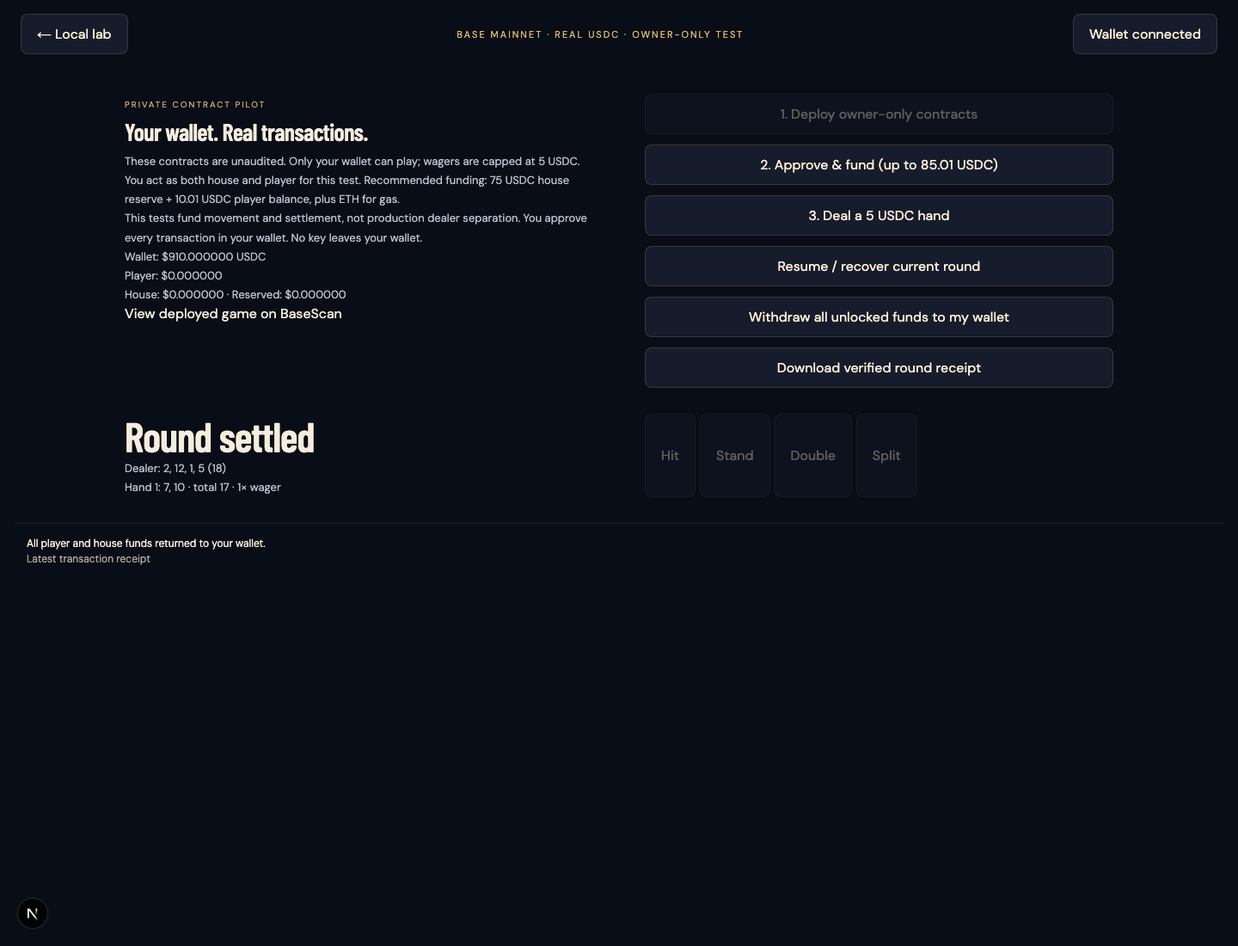
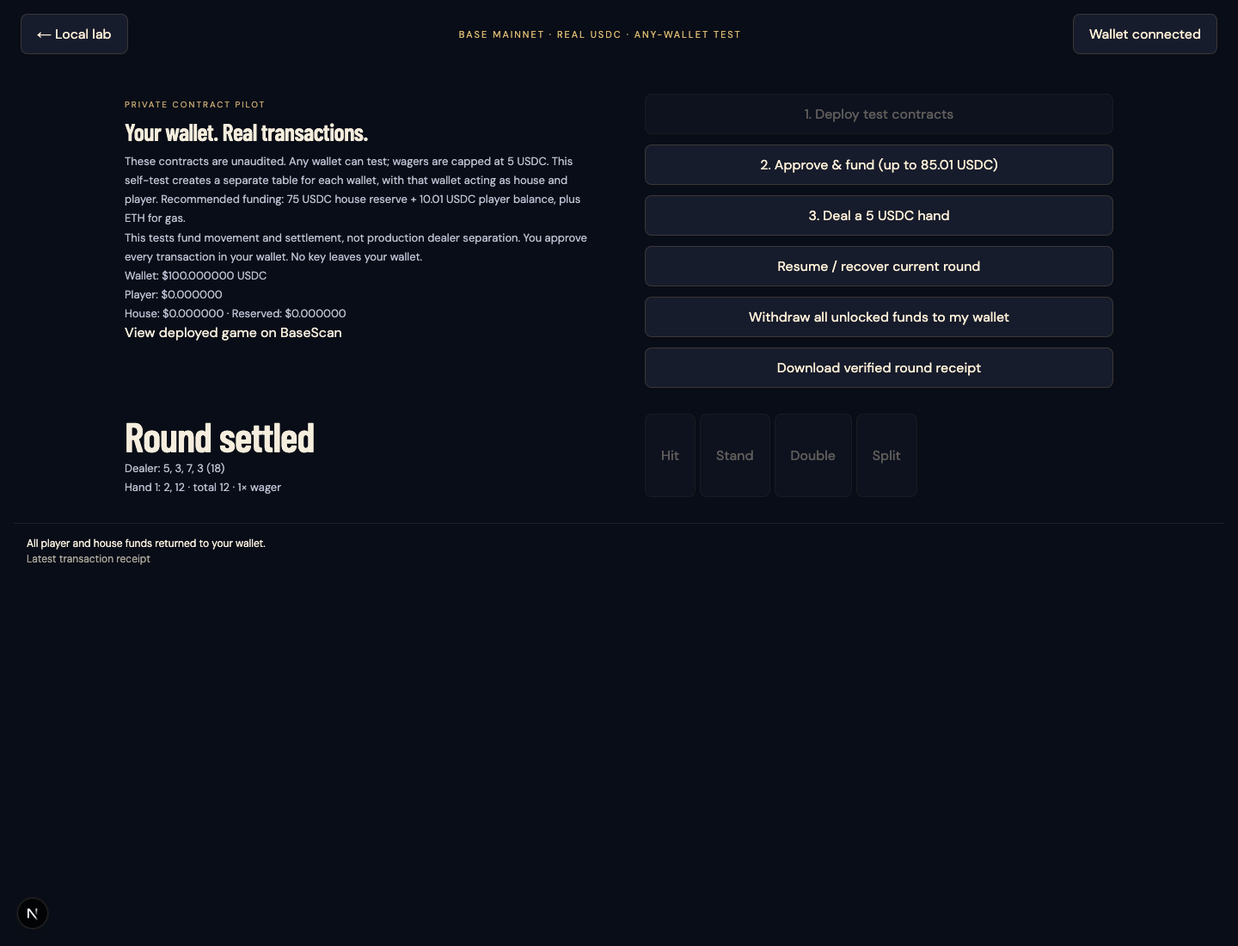
Allow any test wallet and prepare public crypto entry points

diff --git a/app/crypto-pilot/ui.tsx b/app/crypto-pilot/ui.tsx
@@ -11,27 +11,26 @@ import artifact from '../../shared/crypto/pilot-artifact.json';
 import {verifyCryptoReceipt} from '../../shared/crypto/verify-receipt';
 import type {LabReceipt} from '../../server/crypto/lab-types';
 import '../crypto-lab/lab.css';
-const OWNER='0x8A0182c099A618583e9EF98716DAcF739b3BD944';
-const treasuryAbi=parseAbi(['function house() view returns(uint256)','function reserved() view returns(uint256)','function paused() view returns(bool)','function fundHouse(uint256)','function withdrawProfit(uint256)','function setPaused(bool)']);
+const treasuryAbi=parseAbi(['function treasury() view returns(address)','function house() view returns(uint256)','function reserved() view returns(uint256)','function paused() view returns(bool)','function fundHouse(uint256)','function withdrawProfit(uint256)','function setPaused(bool)']);
 type Deployment={game:Address;vault:Address;block:string};type Secret={id:Hex;seed:Hex;commitment:Hex};
 const random=()=>`0x${Array.from(crypto.getRandomValues(new Uint8Array(32)),x=>x.toString(16).padStart(2,'0')).join('')}` as Hex;
 const provider=()=>{const p=(window as unknown as {ethereum?:EIP1193Provider}).ethereum;if(!p)throw Error('Open this page in a browser with your wallet extension.');return p;};
 export default function Pilot(){
- const [owner,setOwner]=useState<Address>(),[deployment,setDeployment]=useState<Deployment>(),[secret,setSecret]=useState<Secret>(),[state,setState]=useState<CryptoState>(),[phase,setPhase]=useState(0),[balance,setBalance]=useState({wallet:'0',available:'0',house:'0',reserved:'0'}),[busy,setBusy]=useState(''),[message,setMessage]=useState('Owner-only real USDC test. This is not the public game.'),[receipt,setReceipt]=useState<LabReceipt>(),[tx,setTx]=useState<Hex>();
- const storageKey='bonkers-owner-pilot-v1';
- useEffect(()=>{try{const d=JSON.parse(localStorage.getItem(storageKey)??'null');if(d){setDeployment(d.deployment);setSecret(d.secret);}}catch{}},[]);
- function save(d:Deployment,s?:Secret){localStorage.setItem(storageKey,JSON.stringify({deployment:d,secret:s}));setDeployment(d);setSecret(s);}
- async function clients(){const p=provider(),wallet=createWalletClient({chain:base,transport:custom(p)}),client=createPublicClient({chain:base,transport:custom(p)});if(await wallet.getChainId()!==8453)throw Error('Switch to Base mainnet before continuing.');const [account]=await wallet.getAddresses();if(account?.toLowerCase()!==OWNER.toLowerCase())throw Error(`Select ${OWNER}`);return{wallet,client,account};}
+ const [owner,setOwner]=useState<Address>(),[deployment,setDeployment]=useState<Deployment>(),[secret,setSecret]=useState<Secret>(),[state,setState]=useState<CryptoState>(),[phase,setPhase]=useState(0),[balance,setBalance]=useState({wallet:'0',available:'0',house:'0',reserved:'0'}),[busy,setBusy]=useState(''),[message,setMessage]=useState('Private wallet USDC test. This is not the public game.'),[receipt,setReceipt]=useState<LabReceipt>(),[tx,setTx]=useState<Hex>();
+ const storageKey=(account:Address)=>`bonkers-wallet-pilot-v2:${account.toLowerCase()}`;
+ useEffect(()=>{const p=(window as unknown as {ethereum?:EIP1193Provider}).ethereum;const reset=()=>{setOwner(undefined);setDeployment(undefined);setSecret(undefined);setState(undefined);setReceipt(undefined);setPhase(0);setBalance({wallet:'0',available:'0',house:'0',reserved:'0'});setMessage('Wallet changed. Reconnect to load that wallet’s test.');};p?.on?.('accountsChanged',reset);p?.on?.('chainChanged',reset);return()=>{p?.removeListener?.('accountsChanged',reset);p?.removeListener?.('chainChanged',reset);};},[]);
+ function save(d:Deployment,s?:Secret){if(!owner)throw Error("Connect a wallet first");localStorage.setItem(storageKey(owner),JSON.stringify({deployment:d,secret:s}));setDeployment(d);setSecret(s);}
+ async function clients(){const p=provider(),wallet=createWalletClient({chain:base,transport:custom(p)}),client=createPublicClient({chain:base,transport:custom(p)});if(await wallet.getChainId()!==8453)throw Error('Switch to Base mainnet before continuing.');const [account]=await wallet.getAddresses();if(!account)throw Error('Connect a wallet first');if(owner&&account.toLowerCase()!==owner.toLowerCase())throw Error('Wallet changed; reconnect before signing');return{wallet,client,account};}
  async function run(label:string,fn:()=>Promise<void>){setBusy(label);try{await fn();}catch(e){setMessage(e instanceof Error?e.message:'Operation failed');}finally{setBusy('');}}
- async function readBalances(d=deployment){const {client,account}=await clients();const wallet=await client.readContract({address:BASE_USDC,abi:erc20Abi,functionName:'balanceOf',args:[account]});if(!d){setBalance(b=>({...b,wallet:String(wallet)}));return;}
- const [available,house,reserved,pilot,token]=await Promise.all([client.readContract({address:d.vault,abi:vaultAbi,functionName:'available',args:[account]}),client.readContract({address:d.vault,abi:treasuryAbi,functionName:'house'}),client.readContract({address:d.vault,abi:treasuryAbi,functionName:'reserved'}),client.readContract({address:d.game,abi:gameAbi,functionName:'pilotOwner'}),client.readContract({address:d.vault,abi:vaultAbi,functionName:'token'})]);if(pilot.toLowerCase()!==OWNER.toLowerCase()||token!==BASE_USDC)throw Error('Unexpected pilot owner or settlement token');setBalance({wallet:String(wallet),available:String(available),house:String(house),reserved:String(reserved)});}
+ async function readBalances(d:Deployment|null|undefined=deployment){const {client,account}=await clients();const wallet=await client.readContract({address:BASE_USDC,abi:erc20Abi,functionName:'balanceOf',args:[account]});if(!d){setBalance(b=>({...b,wallet:String(wallet)}));return;}
+ const [available,house,reserved,treasury,token]=await Promise.all([client.readContract({address:d.vault,abi:vaultAbi,functionName:'available',args:[account]}),client.readContract({address:d.vault,abi:treasuryAbi,functionName:'house'}),client.readContract({address:d.vault,abi:treasuryAbi,functionName:'reserved'}),client.readContract({address:d.vault,abi:treasuryAbi,functionName:'treasury'}),client.readContract({address:d.vault,abi:vaultAbi,functionName:'token'})]);if(treasury.toLowerCase()!==account.toLowerCase()||token!==BASE_USDC)throw Error('This saved self-test belongs to another wallet or uses an unexpected token');setBalance({wallet:String(wallet),available:String(available),house:String(house),reserved:String(reserved)});}
  async function send(args:Record<string,unknown>){const {wallet,client,account}=await clients();const hash=await wallet.writeContract({...args,account} as Parameters<typeof wallet.writeContract>[0]);setTx(hash);const result=await client.waitForTransactionReceipt({hash});if(result.status!=='success')throw Error('Transaction reverted. Refresh state before retrying.');return hash;}
- async function connect(){await run('Connect Base wallet',async()=>{await provider().request({method:'eth_requestAccounts'});try{await provider().request({method:'wallet_switchEthereumChain',params:[{chainId:'0x2105'}]});}catch{await provider().request({method:'wallet_addEthereumChain',params:[{chainId:'0x2105',chainName:'Base',nativeCurrency:base.nativeCurrency,rpcUrls:['https://mainnet.base.org'],blockExplorerUrls:['https://basescan.org']}]});await provider().request({method:'wallet_switchEthereumChain',params:[{chainId:'0x2105'}]});}const {account}=await clients();setOwner(account);await readBalances();setMessage('Connected to Base mainnet. Every transaction below requires your wallet confirmation.');});}
- async function deploy(){await run('Deploy owner-only contracts',async()=>{const {wallet,client,account}=await clients();const args=[BASE_USDC,account,account];
- const hash=await wallet.deployContract({account,abi:artifact.abi,bytecode:artifact.bytecode as Hex,args});setTx(hash);const result=await client.waitForTransactionReceipt({hash});if(result.status!=='success'||!result.contractAddress)throw Error('Deployment failed');const game=result.contractAddress,vault=await client.readContract({address:game,abi:gameAbi,functionName:'vault'});const d={game,vault,block:String(result.blockNumber)};save(d);await readBalances(d);setMessage('Owner-only contracts deployed. Fund them next.');});}
+ async function connect(){await run('Connect Base wallet',async()=>{await provider().request({method:'eth_requestAccounts'});try{await provider().request({method:'wallet_switchEthereumChain',params:[{chainId:'0x2105'}]});}catch{await provider().request({method:'wallet_addEthereumChain',params:[{chainId:'0x2105',chainName:'Base',nativeCurrency:base.nativeCurrency,rpcUrls:['https://mainnet.base.org'],blockExplorerUrls:['https://basescan.org']}]});await provider().request({method:'wallet_switchEthereumChain',params:[{chainId:'0x2105'}]});}const {account}=await clients();setOwner(account);let saved:{deployment:Deployment;secret?:Secret}|null=null;try{saved=JSON.parse(localStorage.getItem(storageKey(account))??'null');if(!saved){const legacy=JSON.parse(localStorage.getItem('bonkers-owner-pilot-v1')??'null');if(legacy?.deployment){const {client}=await clients();const treasury=await client.readContract({address:legacy.deployment.vault,abi:treasuryAbi,functionName:'treasury'});if(treasury.toLowerCase()===account.toLowerCase())saved=legacy;}}}catch{}setDeployment(saved?.deployment);setSecret(saved?.secret);await readBalances(saved?.deployment??null);setMessage('Connected to Base mainnet. Every transaction below requires your wallet confirmation.');});}
+ async function deploy(){await run('Deploy test contracts',async()=>{const {wallet,client,account}=await clients();const args=[BASE_USDC,account,account];
+ const hash=await wallet.deployContract({account,abi:artifact.abi,bytecode:artifact.bytecode as Hex,args});setTx(hash);const result=await client.waitForTransactionReceipt({hash});if(result.status!=='success'||!result.contractAddress)throw Error('Deployment failed');const game=result.contractAddress,vault=await client.readContract({address:game,abi:gameAbi,functionName:'vault'});const d={game,vault,block:String(result.blockNumber)};save(d);await readBalances(d);setMessage('Test contracts deployed. Fund them next.');});}
  async function fund(){await run('Fund reserve and player balance',async()=>{if(!deployment)return;const {client,account}=await clients();const [available,house,paused]=await Promise.all([client.readContract({address:deployment.vault,abi:vaultAbi,functionName:'available',args:[account]}),client.readContract({address:deployment.vault,abi:treasuryAbi,functionName:'house'}),client.readContract({address:deployment.vault,abi:treasuryAbi,functionName:'paused'})]);const player=available<10010000n?10010000n-available:0n,bank=house<75000000n?75000000n-house:0n;
  if(player+bank>0n)await send({address:BASE_USDC,abi:erc20Abi,functionName:'approve',args:[deployment.vault,player+bank]});
- if(bank)await send({address:deployment.vault,abi:treasuryAbi,functionName:'fundHouse',args:[bank]});if(paused)await send({address:deployment.vault,abi:treasuryAbi,functionName:'setPaused',args:[false]});if(player)await send({address:deployment.vault,abi:vaultAbi,functionName:'depositFor',args:[account,player]});await readBalances();setMessage('Funded: up to 75 USDC house reserve and 10.01 USDC player balance. Both remain in your owner-only vault.');});}
+ if(bank)await send({address:deployment.vault,abi:treasuryAbi,functionName:'fundHouse',args:[bank]});if(paused)await send({address:deployment.vault,abi:treasuryAbi,functionName:'setPaused',args:[false]});if(player)await send({address:deployment.vault,abi:vaultAbi,functionName:'depositFor',args:[account,player]});await readBalances();setMessage('Funded: up to 75 USDC house reserve and 10.01 USDC player balance. Both remain in your test vault.');});}
  async function replay(d:Deployment,s:Secret){const {client}=await clients();const current=await client.readContract({address:d.game,abi:gameAbi,functionName:'state',args:[s.id]});const [p,, ,entropy,players,stakes]=current;setPhase(p);if(players.length===0||entropy===`0x${'0'.repeat(64)}`)return{current,model:undefined,actions:[],stakes};const events=await client.getContractEvents({address:d.game,abi:gameAbi,eventName:'Acted',args:{id:s.id},fromBlock:BigInt(d.block),toBlock:'latest'});const deck=shuffle(s.seed,entropy),model=initial(deck,players.length),actions=events.map(e=>({seat:e.args.seat!,move:e.args.move!}));for(const a of actions)step(model,deck,a);setState(publicState(model));return{current,model,actions,stakes};}
  async function progress(d:Deployment,s:Secret){
   const {client}=await clients();let r=await replay(d,s);
@@ -50,5 +49,5 @@ export default function Pilot(){
  await progress(deployment,secret);});}
  async function recoverFunds(){await run('Withdraw player funds and unreserved house funds',async()=>{if(!deployment)return;const {client,account}=await clients();const available=await client.readContract({address:deployment.vault,abi:vaultAbi,functionName:'available',args:[account]});if(available)await send({address:deployment.vault,abi:vaultAbi,functionName:'withdraw',args:[available,account]});const house=await client.readContract({address:deployment.vault,abi:treasuryAbi,functionName:'house'}),reserved=await client.readContract({address:deployment.vault,abi:treasuryAbi,functionName:'reserved'});if(house>reserved)await send({address:deployment.vault,abi:treasuryAbi,functionName:'withdrawProfit',args:[house-reserved]});await readBalances();setMessage(reserved?'Unlocked funds withdrawn; finish or recover the round for reserved funds.':'All player and house funds returned to your wallet.');});}
  function download(){if(!receipt)return;const url=URL.createObjectURL(new Blob([JSON.stringify(receipt,null,2)],{type:'application/json'}));const a=document.createElement('a');a.href=url;a.download=`mainnet-${receipt.id}.json`;a.click();URL.revokeObjectURL(url);}
- return <main className="crypto-lab"><div className="lab-top"><a href="/crypto-lab">← Local lab</a><span>BASE MAINNET · REAL USDC · OWNER-ONLY TEST</span><button disabled={!!busy} onClick={connect}>{owner?'Wallet connected':'Connect Base wallet'}</button></div><section className="lab-cashier"><div><small>PRIVATE CONTRACT PILOT</small><h1>Your wallet. Real transactions.</h1><p>These contracts are unaudited. Only your wallet can play; wagers are capped at 5 USDC. You act as both house and player for this test. Recommended funding: 75 USDC house reserve + 10.01 USDC player balance, plus ETH for gas.</p><p>This tests fund movement and settlement, not production dealer separation. You approve every transaction in your wallet. No key leaves your wallet.</p><p>Wallet: ${formatUSDC(BigInt(balance.wallet))} USDC<br/>Player: ${formatUSDC(BigInt(balance.available))}<br/>House: ${formatUSDC(BigInt(balance.house))} · Reserved: ${formatUSDC(BigInt(balance.reserved))}</p>{deployment&&<a href={`https://basescan.org/address/${deployment.game}`} target="_blank" rel="noreferrer">View deployed game on BaseScan</a>}</div><div className="lab-form"><button disabled={!owner||!!busy||!!deployment} onClick={deploy}>1. Deploy owner-only contracts</button><button disabled={!deployment||!owner||!!busy} onClick={fund}>2. Approve & fund (up to 85.01 USDC)</button><button disabled={!deployment||!owner||!!busy} onClick={deal}>3. Deal a 5 USDC hand</button><button disabled={!secret||!owner||!!busy} onClick={resume}>Resume / recover current round</button><button disabled={!deployment||!owner||!!busy} onClick={recoverFunds}>Withdraw all unlocked funds to my wallet</button><button disabled={!receipt} onClick={download}>Download verified round receipt</button></div></section><section className="lab-cashier"><div><h2>Round {phase===5?'settled':phase===3?'— your turn':''}</h2>{state&&<><p>Dealer: {state.dealer.map(c=>c%13+1).join(', ')} {state.done?`(${total(state.dealer)})`:' + hidden card'}</p>{state.seats[0].hands.map((h,i)=><p key={i}>Hand {i+1}: {h.cards.map(c=>c%13+1).join(', ')} · total {total(h.cards)} · {h.multiplier}× wager</p>)}</>}</div><div className="lab-actions">{[[1,'Hit'],[2,'Stand'],[3,'Double'],[4,'Split']].map(([m,label])=><button key={m} disabled={!!busy||!owner||phase!==3||!state||!legalMoves(state).includes(Number(m))||(Number(m)>=3&&BigInt(balance.available)<5000000n)} onClick={()=>act(Number(m))}>{label}</button>)}</div></section><aside className="lab-status" aria-live="polite">{busy&&`${busy}. `}{message}{tx&&<p><a href={`https://basescan.org/tx/${tx}`} target="_blank" rel="noreferrer">Latest transaction receipt</a></p>}</aside></main>;
+ return <main className="crypto-lab"><div className="lab-top"><a href="/crypto-lab">← Local lab</a><span>BASE MAINNET · REAL USDC · ANY-WALLET TEST</span><button disabled={!!busy} onClick={connect}>{owner?'Wallet connected':'Connect Base wallet'}</button></div><section className="lab-cashier"><div><small>PRIVATE CONTRACT PILOT</small><h1>Your wallet. Real transactions.</h1><p>These contracts are unaudited. Any wallet can test; wagers are capped at 5 USDC. This self-test creates a separate table for each wallet, with that wallet acting as house and player. Recommended funding: 75 USDC house reserve + 10.01 USDC player balance, plus ETH for gas.</p><p>This tests fund movement and settlement, not production dealer separation. You approve every transaction in your wallet. No key leaves your wallet.</p><p>Wallet: ${formatUSDC(BigInt(balance.wallet))} USDC<br/>Player: ${formatUSDC(BigInt(balance.available))}<br/>House: ${formatUSDC(BigInt(balance.house))} · Reserved: ${formatUSDC(BigInt(balance.reserved))}</p>{deployment&&<a href={`https://basescan.org/address/${deployment.game}`} target="_blank" rel="noreferrer">View deployed game on BaseScan</a>}</div><div className="lab-form"><button disabled={!owner||!!busy||!!deployment} onClick={deploy}>1. Deploy test contracts</button><button disabled={!deployment||!owner||!!busy} onClick={fund}>2. Approve & fund (up to 85.01 USDC)</button><button disabled={!deployment||!owner||!!busy} onClick={deal}>3. Deal a 5 USDC hand</button><button disabled={!secret||!owner||!!busy} onClick={resume}>Resume / recover current round</button><button disabled={!deployment||!owner||!!busy} onClick={recoverFunds}>Withdraw all unlocked funds to my wallet</button><button disabled={!receipt} onClick={download}>Download verified round receipt</button></div></section><section className="lab-cashier"><div><h2>Round {phase===5?'settled':phase===3?'— your turn':''}</h2>{state&&<><p>Dealer: {state.dealer.map(c=>c%13+1).join(', ')} {state.done?`(${total(state.dealer)})`:' + hidden card'}</p>{state.seats[0].hands.map((h,i)=><p key={i}>Hand {i+1}: {h.cards.map(c=>c%13+1).join(', ')} · total {total(h.cards)} · {h.multiplier}× wager</p>)}</>}</div><div className="lab-actions">{[[1,'Hit'],[2,'Stand'],[3,'Double'],[4,'Split']].map(([m,label])=><button key={m} disabled={!!busy||!owner||phase!==3||!state||!legalMoves(state).includes(Number(m))||(Number(m)>=3&&BigInt(balance.available)<5000000n)} onClick={()=>act(Number(m))}>{label}</button>)}</div></section><aside className="lab-status" aria-live="polite">{busy&&`${busy}. `}{message}{tx&&<p><a href={`https://basescan.org/tx/${tx}`} target="_blank" rel="noreferrer">Latest transaction receipt</a></p>}</aside></main>;
 }

diff --git a/scripts/crypto/verify-pilot.ts b/scripts/crypto/verify-pilot.ts
@@ -3,7 +3,7 @@ import {spawn} from 'node:child_process';
 import {readFile,writeFile} from 'node:fs/promises';
 import assert from 'node:assert/strict';
 import {chromium} from '@playwright/test';
-import {createPublicClient,http,erc20Abi} from 'viem';
+import {createPublicClient,createWalletClient,http,erc20Abi} from 'viem';
 import {BASE_USDC} from '../../shared/crypto/assets';
 const c=JSON.parse(await readFile('.data/crypto-lab/config.json','utf8'));
 const rpc='http://127.0.0.1:8548';
@@ -14,12 +14,18 @@ try{
  for(let i=0;;i++){try{await client.getChainId();break;}catch{if(i>30)throw Error('Fork failed');await new Promise(r=>setTimeout(r,250));}}
  assert((await client.request({method:'web3_clientVersion'})).toLowerCase().includes('anvil'));assert.equal(await client.getChainId(),8453);
  await client.request({method:'anvil_impersonateAccount',params:[c.player]} as never);
+ // Exercise a different wallet from the previously hard-coded owner.
+ const wallet=createWalletClient({transport:http(rpc)});const accounts=await wallet.getAddresses();const tester=accounts[1];assert(tester.toLowerCase()!==c.player.toLowerCase());
+ const funded=await wallet.writeContract({account:c.player,chain:null,address:BASE_USDC,abi:erc20Abi,functionName:'transfer',args:[tester,100000000n]});
+ assert.equal((await client.waitForTransactionReceipt({hash:funded})).status,'success');
+ await client.request({method:'anvil_stopImpersonatingAccount',params:[c.player]} as never);c.player=tester;
+
  const before=await client.readContract({address:BASE_USDC,abi:erc20Abi,functionName:'balanceOf',args:[c.player]});
  browser=await chromium.launch();const page=await browser.newPage({viewport:{width:1440,height:1100}});const errors:string[]=[];page.on('pageerror',e=>errors.push(e.message));
  await page.addInitScript({content:'window.__name=(fn)=>fn;'});
  await page.addInitScript(({rpc,player})=>{(window as unknown as {ethereum:unknown}).ethereum={on:()=>{},removeListener:()=>{},request:async({method,params}:{method:string;params?:unknown[]})=>{if(method==='eth_requestAccounts'||method==='eth_accounts')return[player];if(method==='wallet_switchEthereumChain'){if((params?.[0] as {chainId:string}).chainId!=='0x2105')throw Error('Wrong network');return null;}const r=await fetch(rpc,{method:'POST',headers:{'content-type':'application/json'},body:JSON.stringify({jsonrpc:'2.0',id:1,method,params:params??[]})});const d=await r.json();if(d.error)throw Error(d.error.message);return d.result;}};},{rpc,player:c.player});
  await page.goto('http://127.0.0.1:3107/crypto-pilot');await page.getByRole('button',{name:'Connect Base wallet',exact:true}).click();
- await page.getByRole('button',{name:'1. Deploy owner-only contracts',exact:true}).click();
+ await page.getByRole('button',{name:'1. Deploy test contracts',exact:true}).click();
  await page.getByRole('button',{name:'2. Approve & fund (up to 85.01 USDC)',exact:true}).click();
  await page.getByRole('button',{name:'3. Deal a 5 USDC hand',exact:true}).click();
  const end=Date.now()+60000;while(Date.now()<end){if(await page.getByRole('button',{name:'Download verified round receipt',exact:true}).isEnabled())break;if(await page.getByRole('button',{name:'Stand',exact:true}).isEnabled())await page.getByRole('button',{name:'Stand',exact:true}).click();await page.waitForTimeout(200);}
@@ -29,5 +35,5 @@ try{
  const after=await client.readContract({address:BASE_USDC,abi:erc20Abi,functionName:'balanceOf',args:[c.player]});assert.equal(after,before,'Owner receives every USDC back when acting as both house and player');assert.deepEqual(errors,[]);
  await page.screenshot({path:'docs/crypto/evidence/owner-pilot.png',fullPage:true});
  await writeFile('docs/crypto/evidence/owner-pilot.json',JSON.stringify({testedAt:new Date().toISOString(),execution:'LOCAL Anvil fork with chain ID 8453, not mainnet',wallet:c.player,before:String(before),after:String(after),browserErrors:errors},null,2));
- console.log('PASS: owner-only mainnet UI deploy/fund/play/replay/withdraw on LOCAL fork. No mainnet transactions.');
+ console.log('PASS: different-wallet mainnet UI deploy/fund/play/replay/withdraw on LOCAL fork. No mainnet transactions.');
 }catch(error){if(browser){const page=browser.contexts()[0]?.pages()[0];if(page)console.error('UI:',await page.locator('.lab-status').innerText());}throw error;}finally{await browser?.close();node.kill('SIGTERM');}

diff --git a/app/crypto-lab/ui.tsx b/app/crypto-lab/ui.tsx
@@ -20,7 +20,7 @@ export default function CryptoLab(){
  },[account]);
  useEffect(()=>{void refresh().catch(e=>setMessage(e.message));const id=setInterval(()=>void refresh().catch(e=>setMessage(e.message)),1500);return()=>clearInterval(id);},[refresh]);
  useEffect(()=>{const p=provider();if(!p)return;const clear=()=>{setAccount(undefined);setRecipient('');setMessage('Wallet changed. Reconnect to verify the account and local chain.');};p.on?.('accountsChanged',clear);p.on?.('chainChanged',clear);return()=>{p.removeListener?.('accountsChanged',clear);p.removeListener?.('chainChanged',clear);};},[]);
- async function connect(){await run('Connecting',async()=>{const p=provider();if(!p)throw Error('Install or open an Ethereum wallet browser extension to connect.');try{await p.request({method:'wallet_switchEthereumChain',params:[{chainId:'0x7a69'}]});}catch{await p.request({method:'wallet_addEthereumChain',params:[{chainId:'0x7a69',chainName:chain.name,nativeCurrency:chain.nativeCurrency,rpcUrls:[chain.rpcUrls.default.http[0]]}]});await p.request({method:'wallet_switchEthereumChain',params:[{chainId:'0x7a69'}]});}const wallet=createWalletClient({chain,transport:custom(p)});const [a]=await wallet.requestAddresses();if(config&&a.toLowerCase()!==config.player.toLowerCase())throw Error(`Select your configured test wallet ${config.player}`);if(await wallet.getChainId()!==31337)throw Error('Use the local fork network');setAccount(a);setRecipient(a);setMessage('Connected to the local Base fork. All balances here are test-only.');});}
+ async function connect(){await run('Connecting',async()=>{const p=provider();if(!p)throw Error('Install or open an Ethereum wallet browser extension to connect.');try{await p.request({method:'wallet_switchEthereumChain',params:[{chainId:'0x7a69'}]});}catch{await p.request({method:'wallet_addEthereumChain',params:[{chainId:'0x7a69',chainName:chain.name,nativeCurrency:chain.nativeCurrency,rpcUrls:[chain.rpcUrls.default.http[0]]}]});await p.request({method:'wallet_switchEthereumChain',params:[{chainId:'0x7a69'}]});}const wallet=createWalletClient({chain,transport:custom(p)});const [a]=await wallet.requestAddresses();if(await wallet.getChainId()!==31337)throw Error('Use the local fork network');setAccount(a);setRecipient(a);setMessage('Connected to the local Base fork. All balances here are test-only.');});}
  async function run(label:string,fn:()=>Promise<void>){setPending(label);try{await fn();}catch(error){setMessage(error instanceof Error?error.message:'Transaction failed');}finally{setPending('');}}
  async function transact(args:Record<string,unknown>){const p=provider();if(!p||!account||!config)throw Error('Connect your wallet first');const wallet=createWalletClient({chain,transport:custom(p),account});if(await wallet.getChainId()!==31337)throw Error('Wrong network: refusing transaction');const [current]=await wallet.getAddresses();if(current?.toLowerCase()!==account.toLowerCase())throw Error('Wallet account changed');const client=createPublicClient({chain,transport:http(config.rpc)});if(await client.getChainId()!==31337)throw Error('Wrong RPC chain');const hash=await wallet.writeContract(args as Parameters<typeof wallet.writeContract>[0]);setLastHash(hash);setMessage('Transaction submitted. Waiting for its receipt…');const receipt=await client.waitForTransactionReceipt({hash});if(receipt.status!=='success')throw Error('Transaction reverted. Balance was not credited.');setMessage('Confirmed on your local fork.');await refresh();}
  async function deposit(){await run('Depositing',async()=>{if(!config||!account)return;const value=parseUSDC(amount);if(value<=0n)throw Error('Enter a positive amount');await transact({address:config.token,abi:erc20Abi,functionName:'approve',args:[config.vault,value]});await transact({address:config.vault,abi:vaultAbi,functionName:'depositFor',args:[account,value]});});}

diff --git a/src/Club.tsx b/src/Club.tsx
@@ -166,7 +166,7 @@ function Dialog({
     </div>
   );
 }
-export default function Club() {
+export default function Club({cryptoTestingEnabled=false}:{cryptoTestingEnabled?:boolean}) {
   const [page, setPage] = useState("home"),
     [tableId, setTableId] = useState("bonkers-room");
   const [profileId, setProfileId] = useState("");
@@ -551,6 +551,7 @@ export default function Club() {
           {account && <a href="#account">Your account</a>}
         </nav>
         <div className="header-actions">
+          {cryptoTestingEnabled && <a className="button secondary" href="/crypto-pilot">Crypto testing</a>}
           {account ? (
             <>
               <button className="balance" onClick={openCashier}>
@@ -1822,6 +1823,7 @@ export default function Club() {
       )}
       {modal === "cashier" && (
         <Dialog title="The cashier." onClose={closeModal}>
+          {cryptoTestingEnabled && <p>Real USDC testing uses a separate wallet balance. <a className="text-link" href="/crypto-pilot">Connect a wallet, test, or withdraw your funds →</a></p>}
           <div className="cashier-balance">
             <span>AVAILABLE PLAY MONEY</span>
             <strong>

diff --git a/tests/crypto-access.test.ts b/tests/crypto-access.test.ts
@@ -1,0 +1,8 @@
+import {test} from 'node:test';import assert from 'node:assert/strict';
+import {cryptoPilotEnabled,publicCryptoTestingEnabled} from '../shared/crypto/access';
+test('public testing requires explicit activation; local testing never implicitly publishes',()=>{
+ assert.equal(publicCryptoTestingEnabled({}),false);assert.equal(cryptoPilotEnabled({}),false);
+ assert.equal(cryptoPilotEnabled({CRYPTO_LAB_ENABLED:'1'}),true);
+ assert.equal(cryptoPilotEnabled({CRYPTO_LAB_ENABLED:'1',VERCEL:'1'}),false);
+ assert.equal(cryptoPilotEnabled({CRYPTO_PUBLIC_TESTING:'1',VERCEL:'1'}),true);
+});

diff --git a/app/crypto-pilot/page.tsx b/app/crypto-pilot/page.tsx
@@ -1,5 +1,6 @@
 import {notFound} from 'next/navigation';
 import Pilot from './ui';
+import {cryptoPilotEnabled} from '../../shared/crypto/access';
 export const dynamic='force-dynamic';
-export const metadata={title:'Bonkers — Owner Mainnet Test',robots:{index:false,follow:false}};
-export default function Page(){if(process.env.CRYPTO_LAB_ENABLED!=='1'||process.env.VERCEL)notFound();return <Pilot/>;}
+export const metadata={title:'Bonkers — Wallet Mainnet Test',robots:{index:false,follow:false}};
+export default function Page(){if(!cryptoPilotEnabled())notFound();return <Pilot/>;}

diff --git a/scripts/crypto/export-artifact.ts b/scripts/crypto/export-artifact.ts
@@ -2,4 +2,4 @@ import {readFile,writeFile} from 'node:fs/promises';
 import {keccak256} from 'viem';
 const a=JSON.parse(await readFile('contracts/out/BlackjackGame.sol/BlackjackGame.json','utf8'));
 await writeFile('shared/crypto/pilot-artifact.json',JSON.stringify({abi:a.abi,bytecode:a.bytecode.object,creationCodeHash:keccak256(a.bytecode.object)},null,2)+'\n');
-console.log('Exported owner-only pilot deployment artifact. Rebuild after any contract change.');
+console.log('Exported any-wallet pilot deployment artifact. Rebuild after any contract change.');

diff --git a/shared/crypto/access.ts b/shared/crypto/access.ts
@@ -1,0 +1,3 @@
+/** Public testing is explicitly deployed only after the owner's launch condition is resolved. */
+export function publicCryptoTestingEnabled(env:Record<string,string|undefined>=process.env){return env.CRYPTO_PUBLIC_TESTING==='1';}
+export function cryptoPilotEnabled(env:Record<string,string|undefined>=process.env){return publicCryptoTestingEnabled(env)||(env.CRYPTO_LAB_ENABLED==='1'&&!env.VERCEL);}

diff --git a/shared/crypto/game-abi.ts b/shared/crypto/game-abi.ts
@@ -1,6 +1,5 @@
 import {parseAbi} from 'viem';
 export const gameAbi=parseAbi([
- 'function pilotOwner() view returns (address)',
  'function verifier() view returns (address)',
  'function vault() view returns (address)',
  'function operator() view returns (address)',

diff --git a/app/page.tsx b/app/page.tsx
@@ -1,4 +1,5 @@
 import Club from "../src/Club";
+import {publicCryptoTestingEnabled} from "../shared/crypto/access";
 export default function Page() {
-  return <Club />;
+  return <Club cryptoTestingEnabled={publicCryptoTestingEnabled()} />;
 }

diff --git a/docs/crypto/STATUS.md b/docs/crypto/STATUS.md
@@ -35,3 +35,11 @@ Owner authorized testing without a specified maximum budget; the UI proposes a s
 - Separate crypto database schema is still unapplied. No public Supabase schema was changed. The local worker uses ignored private files and chain events, not production database infrastructure.
 
 Read `TESTING.md` for start/test/recovery commands. A merge alone must not turn this private pilot into public real-money play.
+
+## Later October 1 update — any wallet
+
+The owner requested removal of the wallet whitelist and public-site testing. The address restriction is now removed from both test UIs and new game-contract deployments. Each wallet's self-test deployment is stored separately. Previous owner-only browser records remain recoverable by their owner so existing funds are not hidden. Existing deployed immutable contracts retain their old restrictions; changing source does not upgrade them.
+
+The local fork browser test completed with a DIFFERENT wallet: deploy, fund, play, settle, and withdraw. Foundry also verifies a second player can join a mainnet-mode game and can withdraw only its own funds. House withdrawals remain treasury-only.
+
+Public navigation/cashier links and route enablement are prepared behind `CRYPTO_PUBLIC_TESTING=1`. That flag has NOT been enabled and these changes have NOT been merged/deployed to the public site. The owner's earlier requirement to wait for the issued license remains unresolved; a question asking whether it has arrived and what jurisdictions it permits is pending. The current per-wallet self-test is still not a shared production dealer service. Earlier owner-only descriptions in this checkpoint describe the previous revision, not new deployments.

diff --git a/docs/crypto/TESTING.md b/docs/crypto/TESTING.md
@@ -47,3 +47,9 @@ After Solidity changes, run `npm run crypto:artifact` to regenerate the wallet-d
 No multi-asset conversion is enabled. Direct connected-wallet USDC needs no Privy account or conversion provider. BTC/ETH/SOL/USDT funding needs a separately integrated and approved conversion route. Public production needs independent protocol/contract audit, eligibility requirements, production RPC/indexer/reorg handling, durable jobs, sponsored scoped sessions, operational deployment, and a separate reviewed release. This pilot must not be relabeled as production merely by merging it.
 
 To serve only the owner mainnet screen without starting Anvil, run `npm run crypto:pilot` (stop any server already using port 3107 first). This merely serves the UI; it never deploys or funds anything automatically.
+
+### Any-wallet update
+
+Any Ethereum-compatible wallet can now connect on Base. The previously specified owner address is no longer a login or wagering allowlist. Each wallet's browser self-test is separate; existing mainnet contracts cannot be upgraded by this source change. A different wallet completed the browser flow on a local fork. Every wallet may withdraw **its own** unlocked balance. Only the treasury can withdraw free house funds.
+
+Public-site links are prepared behind `CRYPTO_PUBLIC_TESTING=1`, currently disabled pending resolution of the owner's license-before-use requirement. This supersedes the earlier statement that the pilot unconditionally returns 404 on Vercel. The local Anvil page remains local-only.
